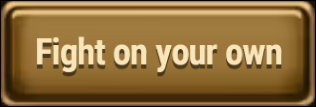
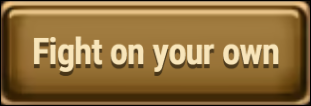
Backup
- Add tesseract capabilities to read the door level
- Clic the door only if it doesn't move
- New "Auto" functionnality
- Recognition of titan door is too complex. Titan door = not hero door

diff --git a/hw-dungeon.py b/hw-dungeon.py
@@ -2,9 +2,11 @@ import cv2
 from dataclasses import dataclass, field
 import math
 import numpy as np
+import os
 import pyautogui
 import pygetwindow as gw
 import random
+import re
 import time
 
 #-*-*-*-*-*-*-*-*-*-*-*-*-*-*-*-*-*-*-*-*-*-*-*-*-*-*-*-*-*-*-*-*-*-*-*-*-*-*-*-*-*-*-*-*
@@ -15,11 +17,20 @@ options = {
 	"use_divination_cards_for_titans": False,
 	"priority": [
 		"water",
-		"earth",
 		"team",
+		"earth",
 		"fire",
 	],
+	"with-tesseract": False, # don't modify this option, it will be set automatically if tesseract is found
 }
+
+#-*-*-*-*-*-*-*-*-*-*-*-*-*-*-*-*-*-*-*-*-*-*-*-*-*-*-*-*-*-*-*-*-*-*-*-*-*-*-*-*-*-*-*-*
+
+tesseract_cmd = r"C:\Program Files\Tesseract-OCR\tesseract.exe"
+if os.path.isfile(tesseract_cmd):
+	import pytesseract
+	pytesseract.pytesseract.tesseract_cmd = tesseract_cmd
+	options["with-tesseract"] = True
 
 #-*-*-*-*-*-*-*-*-*-*-*-*-*-*-*-*-*-*-*-*-*-*-*-*-*-*-*-*-*-*-*-*-*-*-*-*-*-*-*-*-*-*-*-*
 
@@ -52,6 +63,22 @@ def get_locations(window_region, template_path) -> Location:
 
 #-*-*-*-*-*-*-*-*-*-*-*-*-*-*-*-*-*-*-*-*-*-*-*-*-*-*-*-*-*-*-*-*-*-*-*-*-*-*-*-*-*-*-*-*
 
+def read_dungeon_level(window_region):
+	location = get_locations(window_region, 'screenshots/Text Clear Dungeon level.png')
+	if location.pts:
+		# Randomly select a position among the matches
+		top_left = random.choice(location.pts)
+		screenshot = pyautogui.screenshot(region=(int(top_left[0]), int(top_left[1] - location.h // 4), int(location.w * 2), int(location.h * 1.5)))
+		gray = cv2.cvtColor(np.array(screenshot), cv2.COLOR_RGB2GRAY)
+		#cv2.imwrite("capture_gray.png", gray)
+		text = pytesseract.image_to_string(gray, config='--psm 7')
+		# Extract the level number using regex
+		if match := re.search(r'\((\d+)\/\d+\)', text):
+			return match.group(1)
+	return "*not readable*"
+
+#-*-*-*-*-*-*-*-*-*-*-*-*-*-*-*-*-*-*-*-*-*-*-*-*-*-*-*-*-*-*-*-*-*-*-*-*-*-*-*-*-*-*-*-*
+
 def find_one_image(window_region, template_path):
 	location = get_locations(window_region, template_path)
 	if location.pts:
@@ -76,7 +103,23 @@ def wait_for_image(window_region, template_path, timeout=10):
 	while time.time() - start_time < timeout:
 		if position := find_one_image(window_region, template_path):
 			return position
-		time.sleep(0.2)  # Wait a bit before retrying
+		time.sleep(0.1)  # Wait a bit before retrying
+	return None  # Return None if image is not found within the timeout
+
+#-*-*-*-*-*-*-*-*-*-*-*-*-*-*-*-*-*-*-*-*-*-*-*-*-*-*-*-*-*-*-*-*-*-*-*-*-*-*-*-*-*-*-*-*
+
+def wait_for_stable_image(window_region, template_path, timeout=10):
+	start_time = time.time()
+	position = None
+	while time.time() - start_time < timeout:
+		position_old = position
+		if (position := find_one_image(window_region, template_path)):
+			if position_old is not None and math.hypot(position[0] - position_old[0], position[1] - position_old[1]) < window_region[3] // 16:
+				return position
+			elif position_old is None:
+				time.sleep(0.5)  # Let some time pass to check for stability
+		else:
+			time.sleep(0.1)  # Wait a bit before retrying
 	return None  # Return None if image is not found within the timeout
 
 #-*-*-*-*-*-*-*-*-*-*-*-*-*-*-*-*-*-*-*-*-*-*-*-*-*-*-*-*-*-*-*-*-*-*-*-*-*-*-*-*-*-*-*-*
@@ -108,7 +151,7 @@ if windows := gw.getWindowsWithTitle('Hero Wars | Online action game | RPG'):
 
 	# Bring window to foreground (optional)
 	window.activate()
-	time.sleep(1.0)
+	time.sleep(0.5)
 
 	# Extract coordinates and dimensions: (left, top, width, height)
 	window_region = (window.left, window.top, window.width, window.height)
@@ -128,7 +171,7 @@ if pos_oracle := wait_for_image(window_region, 'screenshots/Button Oracle\'s Tri
 
 	if pos_close := wait_for_image(window_region, 'screenshots/Button Close Oracle\'s Trials.png', 1):
 		click_position(pos_close)
-		time.sleep(0.5)  # Wait a bit after clicking close
+		time.sleep(2.0)  # Wait a bit after clicking close
 	else:
 		print("'Close' button not found after claiming divination cards.")
 		exit(1)
@@ -140,55 +183,69 @@ battles = 0
 retries = 0
 door_found = None
 round_heros = False
-round_titans = False
+level = ''
+last_level = 0
+inc_level_once = False
+Auto_is_green = False
 while True:
 	battles += 1
 
 	#-*-*-*-*-*-*-*-*-*-*-*-*-*-*-*-*-*-*-*-*-*-*-*-*-*-*-*-*-*-*-*-*-*-*-*-*-*-*-*-*-*-*-*-*
 	# 3. Find the door ("To battle!" flag) or activate the door to be activated
 
-	pos_door = None
 	pos_activate = None
 	is_activated = False
 	start_time = time.time()
+	door_ok = False
+	door_battle = 'screenshots/Door To battle.png'
 	while time.time() - start_time < 20:  # 20-second timeout
 		door_priority = door_found is not None and (battles - door_found) % 10 == 0
-		if (not door_priority or is_activated) and (pos_door := wait_for_image(window_region, 'screenshots/Door To battle.png', 1)):
-			round_heros = find_one_image(window_region, f"screenshots/Door Heros.png")
-			round_titans = find_one_image(window_region, f"screenshots/Door Titans.png")
-			click_position(pos_door)
-			team_type = "heros" if round_heros else "titans" if round_titans else "unknown"
+		if (not door_priority or is_activated) and wait_for_stable_image(window_region, door_battle, 3):
+			level_log = ""
+			if options["with-tesseract"]:
+				level = read_dungeon_level(window_region)
+				if int(level) == last_level:
+					last_level = int(level)
+					level = str(last_level + 1) if inc_level_once else str(level) + "+"
+				else:
+					last_level = int(level)
+					level = str(int(level) + 1)
+					inc_level_once = True
+				level_log = f"level: {level} "
+			round_heros = find_one_image(window_region, f"screenshots/Door Heros.png") is not None
+			click_position(find_one_image(window_region, door_battle))
+			team_type = "heros" if round_heros else "titans"
 			print(
 				f"{time.strftime('%Y-%m-%d %H:%M:%S')}: Door found,"
-				f" starting {team_type} battle #{battles}."
+				f" starting {team_type} {level_log}battle #{battles}."
 			)
+			door_ok = True
 			break
-		if not is_activated:
-			if pos_activate := wait_for_image(window_region, 'screenshots/Button Activate.png', 1):
-				door_found = battles  # Record the battle number when the door was found
-				start_time = time.time()
-				click_position(pos_activate)
-				if pos_collect := wait_for_image(window_region, 'screenshots/Button Collect.png', 10):
-					click_position(pos_collect)
-					print("Activation and collection completed.")
-					time.sleep(1.0)  # Wait a bit after collection
-					is_activated = True
-				else:
-					print("'Collect' button not found after activation.")
-					exit(1)
-				continue
+		if not is_activated and (pos_activate := wait_for_image(window_region, 'screenshots/Button Activate.png', 1)):
+			door_found = battles
+			start_time = time.time()
+			click_position(pos_activate)
+			if pos_collect := wait_for_image(window_region, 'screenshots/Button Collect.png', 10):
+				click_position(pos_collect)
+				print("Activation and collection completed.")
+				time.sleep(2.0)  # Wait a bit after collection
+				is_activated = True
+			else:
+				print("'Collect' button not found after activation.")
+				exit(1)
+			continue
 
-	if not pos_door:
+	if not door_ok:
 		print("Door not found within the timeout.")
 		exit(1)
 
 	accept_condition = (
 		(options.get("use_divination_cards_for_heros", False) and round_heros)
-		or (options.get("use_divination_cards_for_titans", False) and round_titans)
+		or (options.get("use_divination_cards_for_titans", False) and not round_heros)
 	)
 	fight_condition = (
 		(not options.get("use_divination_cards_for_heros", False) and round_heros)
-		or (not options.get("use_divination_cards_for_titans", False) and round_titans)
+		or (not options.get("use_divination_cards_for_titans", False) and not round_heros)
 	)
 
 	#-*-*-*-*-*-*-*-*-*-*-*-*-*-*-*-*-*-*-*-*-*-*-*-*-*-*-*-*-*-*-*-*-*-*-*-*-*-*-*-*-*-*-*-*
@@ -219,11 +276,11 @@ while True:
 		if accept_condition and (pos_accept := wait_for_image(window_region, 'screenshots/Button Accept this fate.png', 1)):
 			click_position(pos_accept)
 			break
-		if fight_condition and (pos_fight := wait_for_image(window_region, 'screenshots/Button Fight on your own.png', 1)):
+		if (fight_condition or (not accept_condition and not fight_condition)) and (pos_fight := wait_for_image(window_region, 'screenshots/Button Fight on your own.png', 1)):
 			click_position(pos_fight)
 			break
 
-	if not pos_attack and not pos_accept and not pos_fight:
+	if pos_attack is None and pos_accept is None and pos_fight is None:
 		print("'Attack', 'Accept this fate' or 'Fight on your own' button not found within the timeout.")
 		retries += 1
 		if retries >= 3:
@@ -250,11 +307,11 @@ while True:
 		if accept_condition and (pos_accept := wait_for_image(window_region, 'screenshots/Button Accept this fate.png', 1)):
 			click_position(pos_accept)
 			break
-		if fight_condition and (pos_fight := wait_for_image(window_region, 'screenshots/Button Fight on your own.png', 1)):
+		if (fight_condition or (not accept_condition and not fight_condition)) and (pos_fight := wait_for_image(window_region, 'screenshots/Button Fight on your own.png', 1)):
 			click_position(pos_fight)
 			break
 
-	if not pos_to_battle and not pos_accept and not pos_fight:
+	if pos_to_battle is None and pos_accept is None and pos_fight is None:
 		print(
 			"'To battle', 'Accept this fate' or 'Fight on your own' button not found within the"
 			' timeout.'
@@ -276,7 +333,6 @@ while True:
 	#-*-*-*-*-*-*-*-*-*-*-*-*-*-*-*-*-*-*-*-*-*-*-*-*-*-*-*-*-*-*-*-*-*-*-*-*-*-*-*-*-*-*-*-*
 	# 7. "Auto" or "OK" button
 
-	Auto_is_green = False
 	x5_is_green = not options.get("x5", False)  # If x5 is not selected, consider it green
 	pos_Auto = None
 	pos_option_x5	= None
@@ -288,6 +344,8 @@ while True:
 				if find_one_image(window_region, 'screenshots/Button Auto green.png') is None:
 					click_position(pos_Auto)
 					Auto_is_green = True
+			if find_one_image(window_region, 'screenshots/Button Auto green.png') is not None:
+				Auto_is_green = True
 		if not x5_is_green:
 			if pos_option_x5 := wait_for_image(window_region, 'screenshots/Button x5 gray.png', 3):
 				if find_one_image(window_region, 'screenshots/Button x5 green.png') is None:
@@ -298,6 +356,6 @@ while True:
 			time.sleep(1.0)  # Wait a bit after clicking OK
 			break
 
-	if not pos_Auto and not pos_ok:
+	if pos_Auto is None and pos_ok is None:
 		print("'Auto' or 'OK' button not found within the timeout.")
 		exit(1)
